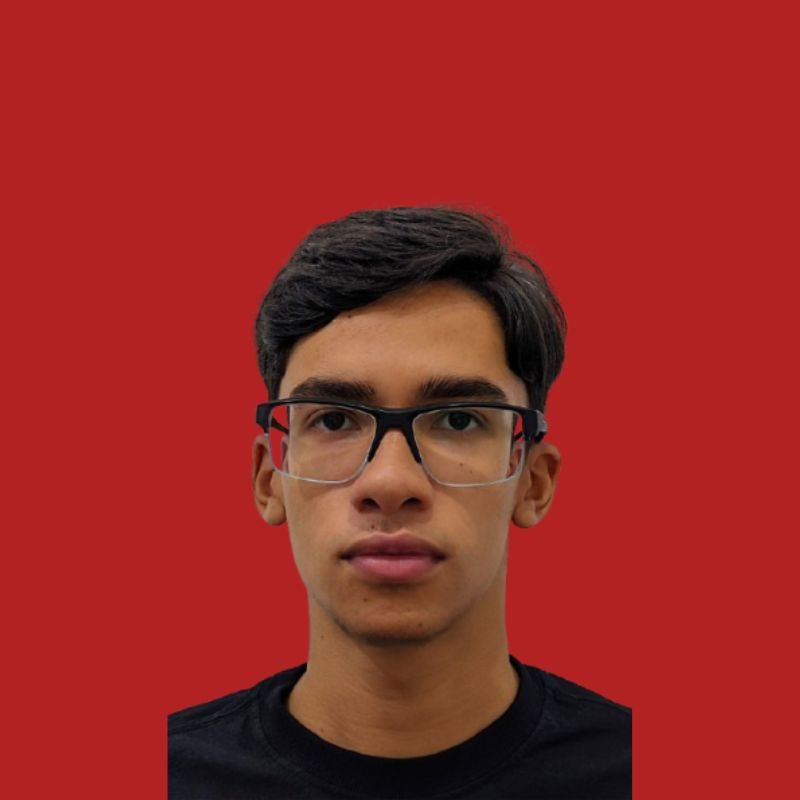
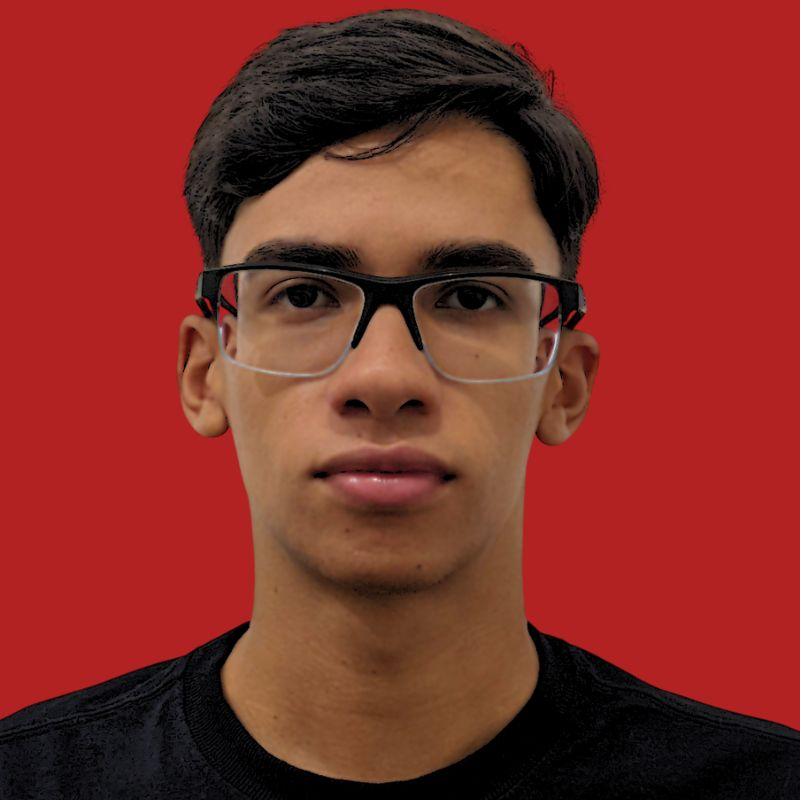
Foto de perfil atualizada

diff --git a/index.html b/index.html
@@ -80,7 +80,7 @@
         </section>
         <section class="about" id="about">
             <div class="about-img">
-                <img src="assets/photos/linkas.jpg">
+                <img src="assets/photos/foto-guilherme.jpg" alt="Foto Guilherme">
             </div>
     
             <div class="about-text">
@@ -107,7 +107,7 @@
             </div>
             <div class="portfolio-content">
                 <div class="row">
-                    <img src="./assets/cover/education-platform.png">
+                    <img src="./assets/cover/education-platform.png" alt="Plataforma de Cursos Online">
                     <div class="layer">
                         <h5>Plataforma de Cursos Online</h5>
                         <p>
@@ -119,7 +119,7 @@
                     </div>
                 </div>
                 <div class="row">
-                    <img src="./assets/cover/clinic-manager.png" alt="Plataforma de cursos online">
+                    <img src="./assets/cover/clinic-manager.png" alt="Gerenciamento de clínica">
                     <div class="layer">
                         <h5>Gerenciamento de clínica</h5>
                         <p>
@@ -131,7 +131,7 @@
                     </div>
                 </div>
                 <div class="row">
-                    <img src="./assets/cover/landingpage-eurotech.png" alt="Plataforma de cursos online">
+                    <img src="./assets/cover/landingpage-eurotech.png" alt="Landing page responsiva">
                     <div class="layer">
                         <h5>Landing page responsiva</h5>
                         <p>
